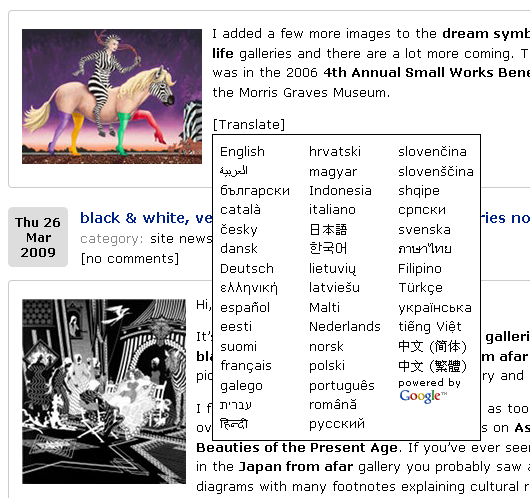
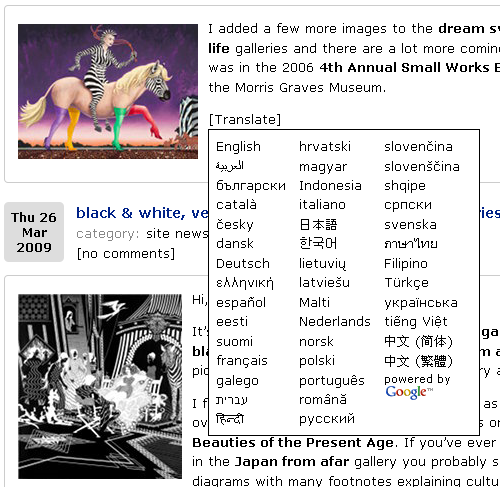
version 0.4.3
git-svn-id: https://plugins.svn.wordpress.org/google-ajax-translation/trunk@123519 b8457f37-d9ea-0310-8a92-e5e31aec5664

Changed region(s): [[0.0, 0.0, 1.0, 1.0]]

diff --git a/jquery.translate-1.3.7.min.js b/jquery.translate-1.3.7.min.js
@@ -1,0 +1,10 @@
+/* jQuery Translate plugin and related components */
+/* http://code.google.com/p/jquery-translate/
+ * Version: 1.3.7
+ * License: MIT, GPL  (c) 2009 Balazs Endresz
+ */
+(function(d){var a,j,h,g=false,b=false,i=[];function e(){j=c.GL=google.language;h=j.Languages;g=true;var k;while(k=i.shift()){k()}}function f(){}function c(){this.extend(d.translate);delete this.defaults;delete this.fn}c.prototype={version:"1.3.7",translateInit:function(k,m){var l=this;this.options=m;m.from=this.toLanguageCode(m.from)||"";m.to=this.toLanguageCode(m.to)||"";if(m.fromOriginal&&m.nodes[0]){m.nodes.each(function(n){var o=d.translate.getData(this,m.from,m);if(!o){return false}k[n]=o})}if(typeof k==="string"){if(!m.comments){k=this.stripComments(k)}this.rawSource="<div>"+k+"</div>";this.isString=true}else{if(!m.comments){k=d.map(k,function(n){return d.translate.stripComments(n)})}this.rawSource="<div>"+k.join("</div><div>")+"</div>";this.isString=false}this.from=m.from;this.to=m.to;this.source=k;this.elements=m.nodes;this.rawTranslation="";this.translation=[];this.startPos=0;this.i=0;this.stopped=false;m.start.call(this,m.nodes[0]?m.nodes:k,m.from,m.to,m);if(m.timeout>0){this.timeout=setTimeout(function(){m.onTimeout.call(l,m.nodes[0]?m.nodes:k,m.from,m.to,m)},m.timeout)}(m.toggle&&m.nodes[0])?this._toggle():this.translate();return this},translate:function(){if(this.stopped){return}var t=this,k=this.options;this.rawSourceSub=this.truncate(this.rawSource.substr(this.startPos),1750);this.startPos+=this.rawSourceSub.length;var q=this.rawTranslation.length,u;while((u=this.rawTranslation.lastIndexOf("</div>",q))>-1){q=u-1;var v=this.rawTranslation.substr(0,q+1),s=v.match(/<div[> ]/gi),r=v.match(/<\/div>/gi);s=s?s.length:0;r=r?r.length:0;if(s!=r+1){continue}var m=d(this.rawTranslation.substr(0,q+7)),p=m.length,n=this.i;if(n==p){break}m.slice(n,p).each(function(l,o){(function(){if(this.stopped){return false}var y=d(o).html().replace(/^\s/,""),x=n+l,z=this.source,A=this.from.length<2&&this.detectedSourceLanguage||this.from;this.translation[x]=y;if(!k.nodes[0]){if(this.isString){this.translation=y}else{z=this.source[x]}k.each.call(this,x,y,z,A,this.to,k)}else{this.each(x,this.elements[x],y,this.source[x],A,this.to,k);k.each.call(this,x,this.elements[x],y,this.source[x],A,this.to,k)}this.i++}).call(t)});break}if(this.rawSourceSub.length>0){j.translate(this.rawSourceSub,this.from,this.to,function(l){(function(){if(l.error){return k.error.call(this,l.error,this.rawSourceSub,this.from,this.to,k)}this.rawTranslation+=l.translation||this.rawSourceSub;this.detectedSourceLanguage=l.detectedSourceLanguage;this.translate()}).call(t)});if(!k.nodes[0]){return}}else{if(!this.rawTranslation){return}var w=this.from.length<2&&this.detectedSourceLanguage||this.from;if(this.timeout){clearTimeout(this.timeout)}if(!k.nodes[0]){k.complete.call(this,this.translation,this.source,w,this.to,k)}else{k.complete.call(this,this.elements.end(),this.elements,this.translation,this.source,w,this.to,k)}}},stop:function(){if(this.stopped){return this}this.stopped=true;this.options.error.call(this,{message:"stopped"});return this}};d.translate=function(m,l,k,o){if(m==a){return new c()}if(d.isFunction(m)){return d.translate.ready(m,l)}var n=new c();return d.translate.ready(function(){return n.translateInit(m,d.translate._getOpt(l,k,o))},false,n)};d.translate.fn=d.translate.prototype=c.prototype;d.translate.fn.extend=d.translate.extend=d.extend;d.translate.extend({stripComments:function(k){return k.replace(/<![ \r\n\t]*(--([^\-]|[\r\n]|-[^\-])*--[ \r\n\t]*)>/g,"")},truncate:function(q,l){var m,u,r,p,o,s,k=encodeURIComponent(q);for(m=0;m<10;m++){try{s=decodeURIComponent(k.substr(0,l-m))}catch(n){continue}if(s){break}}return(!(u=/<(?![^<]*>)/.exec(s)))?((!(r=/>\s*$/.exec(s)))?((p=/[\.\?\!;:](?![^\.\?\!;:]*[\.\?\!;:])/.exec(s))?((o=/>(?![^>]*<)/.exec(s))?(p.index>o.index?s.substring(0,p.index+1):s.substring(0,o.index+1)):s.substring(0,p.index+1)):s):s):s.substring(0,u.index)},getLanguages:function(t,s){if(t==a||(s==a&&!t)){return h}var r={},m=s,p=h;if(s){p=d.translate.getLanguages(t)}else{if(typeof t==="object"){m=t}}if(m){for(var q=0,n=m.length,k,o;q<n;q++){k=d.translate.toLanguageCode(m[q]);for(o in p){if(k===p[o]){r[o]=p[o]}}}}else{for(var o in h){if(j.isTranslatable(h[o])){r[o]=h[o]}}}return r},toLanguage:function(m,n){for(var k in h){if(m===k||m===h[k]||m.toUpperCase()===k||m.toLowerCase()===h[k].toLowerCase()){return n==="lowercase"?k.toLowerCase():n==="capitalize"?k.charAt(0).toUpperCase()+k.substr(1).toLowerCase():k}}},toLanguageCode:function(k){return h.a||h[d.translate.toLanguage(k)]},same:function(l,k){return l===k||d.translate.toLanguageCode(l)===d.translate.toLanguageCode(k)},isTranslatable:function(k){return j.isTranslatable(d.translate.toLanguageCode(k))},getBranding:function(l,k,m){return d(j.getBranding(l,k,m))},load:function(l,m,k){b=true;function n(){google.load(m||"language",k||"1",{callback:e})}(typeof google!=="undefined"&&google.load)?n():d.getScript("http://www.google.com/jsapi?"+(l?"key="+l:""),n);return d.translate},ready:function(k,m,l){g?k():i.push(k);if(!b&&!m){d.translate.load()}return l||d.translate},_getOpt:function(l,k,r,q){var p,n,m={};if(typeof l==="object"){m=l}else{if(!k&&!r){n=l}if(!r&&k){if(typeof k==="object"){n=l;m=k}else{p=l;n=k}}if(l!=a&&k&&r){p=l;n=k;m=r}m.from=p||m.from||"";m.to=n||m.to||""}if(m.fromOriginal){m.toggle=true}if(m.toggle){m.data=true}if(m.async===true){m.async=2}return d.extend({},d.translate._defaults,(q?d.fn.translate.defaults:d.translate.defaults),m)},_defaults:{comments:false,start:f,error:f,each:f,complete:f,onTimeout:f,timeout:0,from:"",to:"",nodes:[],walk:true,returnAll:false,replace:true,rebind:true,data:true,setLangAttr:false,subject:true,not:"",altAndVal:true,async:false,toggle:false,fromOriginal:false}});d.translate.defaults=d.extend({},d.translate._defaults)})(jQuery);(function(b){function a(f,d){var g=f.css("text-align");f.css("direction",d);if(g==="right"){f.css("text-align","left")}if(g==="left"){f.css("text-align","right")}}function c(e,f){var g=e.nodeName.toUpperCase(),d=g==="INPUT"&&b.attr(e,"type").toLowerCase();return typeof f.subject==="string"?f.subject:f.altAndVal&&(g==="IMG"||d==="image")?"alt":f.altAndVal&&({text:1,button:1,submit:1})[d]?"value":g==="TEXTAREA"?"value":"html"}b.translate.fn._toggle=function(){var f=this,g=this.options,e=g.nodes,h=g.to,d=false;e.each(function(j){f.i=j;var l=b(this),k=f.getData(this,h,g);if(!k){return !(d=true)}f.translation.push(k);f.setLangAttr(l,h,g);f.replace(l,k,g);g.each.call(f,j,f.elements[j],k,f.source[j],f.from,h,g)});!d?g.complete.call(this,e.end(),e,f.translation,this.source,this.from,this.to,g):this.translate()};b.translate.extend({each:function(f,h,d,g,m,l,k){var j=b(h);b.translate.setData(h,d,g,m,l,k);b.translate.replace(j,d,k);b.translate.setLangAttr(j,l,k)},getData:function(d,g,f){var e=b.data(d,"translation");return e&&e[g]&&e[g][c(d,f)]},setData:function(g,d,f,k,j,i){if(!i.data){return}var e=c(g,i),h=b.data(g,"translation");h=h||b.data(g,"translation",{});(h[k]=h[k]||{})[e]=f;(h[j]=h[j]||{})[e]=d;b.data(g,"translation."+k+"."+e,f);b.data(g,"translation."+j+"."+e,d)},replace:function(i,g,j){if(!j.replace){return}if(typeof j.subject==="string"){return i.attr(j.subject,g)}var k=i[0].nodeName.toUpperCase(),h=k==="INPUT"&&b.attr(i[0],"type").toLowerCase();if(j.to==="ar"){a(i,"rtl")}else{if(i.css("direction")==="rtl"){a(i,"ltr")}}if(j.altAndVal&&(k==="IMG"||h==="image")){i.attr("alt",g)}else{if(j.altAndVal&&({text:1,button:1,submit:1})[h]){i.val(g)}else{if(k==="TEXTAREA"){i.val(g)}else{if(j.rebind){var d=i.find("*").not("script"),f=b("<div/>").html(g);b.translate.copyEvents(d,f.find("*"));i.html(f.contents())}else{i.html(g)}}}}},setLangAttr:function(d,g,f){if(f.setLangAttr){d.attr(f.setLangAttr===true?"lang":f.setLangAttr,g)}},copyEvents:function(e,d){d.each(function(g){var k=e[g];if(!this||!k){return false}if(({SCRIPT:1,NOSCRIPT:1,STYLE:1,OBJECT:1,IFRAME:1})[k.nodeName.toUpperCase()]){return true}var f=b.data(k,"events");if(!f){return true}for(var j in f){for(var h in f[j]){b.event.add(this,j,f[j][h],f[j][h].data)}}})}});b.fn.translate=function(e,d,h){var f=b.translate._getOpt(e,d,h,true),g=b.extend({},b.translate._defaults,b.fn.translate.defaults,f,{complete:function(j,i){f.nodes=j;b.translate(i,f)},each:function(){}});if(this.nodesContainingText){return this.nodesContainingText(g)}f.nodes=this;b.translate(b.map(this,function(i){return b(i).html()||b(i).val()}),f);return this};b.fn.translate.defaults=b.extend({},b.translate._defaults)})(jQuery);(function(a){a.translate.ui=a.translate.fn.ui=function(f,d,i){var h="",g="",e="";if(i){g="<"+i+">";e="</"+i+">"}a.each(a.translate.getLanguages(true),function(b,c){h+=("<"+d+">"+g+b.charAt(0)+b.substring(1).toLowerCase()+e+"</"+d+">")});return a("<"+f+' class="jq-translate-ui">'+h+"</"+f+">")}})(jQuery);(function(a){a.translate.fn.progress=function(b,d){if(!this.i){this.pr=0}this.pr+=this.source[this.i].length;var c=100*this.pr/(this.rawSource.length-(11*(this.i+1)));if(b){var f=a(b);if(!this.i&&!f.hasClass("ui-progressbar")){f.progressbar(d)}f.progressbar("option","value",c)}return c}})(jQuery);(function(b){function a(){}a.prototype={init:function(e,d){this.textArray=[];this.elements=[];this.options=d;this.jquery=e;this.n=-1;if(d.async===true){d.async=2}if(d.not){e=e.not(d.not);e=e.add(e.find("*").not(d.not)).not(b(d.not).find("*"))}else{e=e.add(e.find("*"))}this.jq=e;this.jql=this.jq.length;return this.process()},process:function(){this.n++;var i=this,d=this.options,p="",h=false,g=false,f=this.jq[this.n],k,m,j;if(this.n==this.jql){j=this.jquery.pushStack(this.elements,"nodesContainingText");d.complete.call(j,j,this.textArray);if(d.returnAll===false&&d.walk===false){return this.jquery}return j}if(!f){return this.process()}k=b(f);var n=f.nodeName.toUpperCase(),l=n==="INPUT"&&b.attr(f,"type").toLowerCase();if(({SCRIPT:1,NOSCRIPT:1,STYLE:1,OBJECT:1,IFRAME:1})[n]){return this.process()}if(typeof d.subject==="string"){p=k.attr(d.subject)}else{if(d.altAndVal&&(n==="IMG"||l==="image")){p=k.attr("alt")}else{if(d.altAndVal&&({text:1,button:1,submit:1})[l]){p=k.val()}else{if(n==="TEXTAREA"){p=k.val()}else{m=f.firstChild;if(d.walk!==true){g=true}else{while(m){if(m.nodeType==1){g=true;break}m=m.nextSibling}}if(!g){p=k.text()}else{if(d.walk!==true){h=true}m=f.firstChild;while(m){if(m.nodeType==3&&m.nodeValue.match(/\S/)!==null){if(m.nodeValue.match(/<![ \r\n\t]*(--([^\-]|[\r\n]|-[^\-])*--[ \r\n\t]*)>/)!==null){if(m.nodeValue.match(/(\S+(?=.*<))|(>(?=.*\S+))/)!==null){h=true;break}}else{h=true;break}}m=m.nextSibling}if(h){p=k.html().replace(/<script[^>]*>([\s\S]*?)<\/script>/gi,"");this.jq=this.jq.not(k.find("*"))}}}}}}if(!p){return this.process()}this.elements.push(f);if(d.comments===false){p=this.stripComments(p)}this.textArray.push(p);d.each.call(f,this.elements.length-1,f,p);if(d.async){setTimeout(function(){i.process()},d.async);return this.jquery}else{return this.process()}},stripComments:function(d){return d.replace(/<![ \r\n\t]*(--([^\-]|[\r\n]|-[^\-])*--[ \r\n\t]*)>/g,"")}};b.fn.nodesContainingText=function(d){d=b.extend({},c,b.fn.nodesContainingText.defaults,d);return new a().init(this,d)};var c={not:"",async:false,each:function(){},complete:function(){},comments:false,returnAll:true,walk:true,altAndVal:false,subject:true};b.fn.nodesContainingText.defaults=c})(jQuery);
+/* minified version of google-ajax-translation.js
+2009-06-06
+ */
+function google_translate(D,C,E){var A=document.getElementById((("comment"==C)?"div-":"")+C+"-"+E);if(!A&&"comment"==C){A=document.getElementById("comment-"+E)}if(A){var B="#translate_loading_"+C+"_"+E;D=("he"==D)?"iw":D;jQuery(A).translate(D,{fromOriginal:true,not:".translate_block",start:function(){jQuery(B).show()},complete:function(){jQuery(B).hide()},error:function(){jQuery(B).hide()}})}jQuery("#translate_popup_"+C+"_"+E).slideUp("fast")}function show_translate_popup(C,B,D){var A=document.getElementById("translate_popup_"+B+"_"+D);if(A){if("none"==A.style.display){jQuery(A).slideDown("fast");if("en"!=C&&(!jQuery(A).hasClass("localized"))){localize_languages(C,A)}}else{jQuery(A).slideUp("fast")}}}var localized_languages=[];function localize_languages(B,A){var C=jQuery("a[title]",A).get();if(0==localized_languages.length){for(i in C){localized_languages[i]=C[i].title}B=("he"==B)?"iw":B;jQuery.translate(localized_languages,"en",B,{complete:function(){localized_languages=this.translation;insert_languagetitles(A,C)}})}else{insert_languagetitles(A,C)}}function insert_languagetitles(A,B){for(i in B){if(B[i].title){B[i].title=localized_languages[i]}}jQuery(A).addClass("localized")}jQuery(function(){jQuery(".translate_block").show()});

diff --git a/google-ajax-translation.js b/google-ajax-translation.js
@@ -1,6 +1,6 @@
 /**
  * Google AJAX Translation
- * 2008-04-28
+ * 2008-06-06
  */
 function google_translate( lang, type, id ) {
 	var text_node = document.getElementById( ( ( 'comment' == type ) ? 'div-' : '' ) + type + '-' + id );
@@ -37,7 +37,7 @@ function show_translate_popup( lang, type, id ) {
 var localized_languages = []; // array that holds localized language names for the entire page
 
 function localize_languages( lang, popup_id ) {
-	var language_nodes = jQuery( popup_id ).children( 'a[title]' ).get();
+	var language_nodes = jQuery( 'a[title]', popup_id ).get();
 	if ( 0 == localized_languages.length ) { // Have language names not been translated yet? This should only be done once per page
 		for ( i in language_nodes ) {
 			localized_languages[i] = language_nodes[i].title; // Make array of English language names

diff --git a/google-ajax-translation.css b/google-ajax-translation.css
@@ -5,6 +5,10 @@ display: -moz-inline-box; /* for FF 2 but FF 2 looks like it has other problems 
 display: inline-block;
 }
 
+.translate_block td {
+padding: 0 1em 0 0;
+}
+
 .translate_block a {
 display: block;
 font-weight: normal !important;
@@ -20,10 +24,6 @@ vertical-align: middle;
 background-color: #fff; /* Use your own background color here. */
 border-style: solid;
 border-width: 1px;
--moz-column-count: 3;
--moz-column-gap: 1em;
-/*-webkit-column-count: 3;
--webkit-column-gap: 1em; webkit doesn't do columns right yet */
 padding: 0.5em;
 position: absolute;
 z-index: 50;
@@ -31,10 +31,6 @@ z-index: 50;
 
 .translate_block .translate_flag {
 background: url(42flags.png) no-repeat;
-}
-
-.translate_popup .translate_flag {
-margin: 0 0 6px;
 }
 
 .translate_block .ar {background-position: 0 0;}

diff --git a/ajaxtranslation.php b/ajaxtranslation.php
@@ -4,8 +4,8 @@ Plugin Name: Google AJAX Translation
 Plugin URI: http://blog.libinpan.com/2008/08/04/google-ajax-translation-wordpress-plugin/
 Description: Add <a href="http://code.google.com/apis/ajaxlanguage/">Google AJAX Translation</a> to your blog. This plugin allows your blog readers to translate your blog posts or comments into other languages. <a href="options-general.php?page=ajaxtranslation.php">[Settings]</a>
 Author: Libin Pan, Michael Klein, and Nick Marshall
-Version: 0.4.2
-Stable tag: 0.4.2
+Version: 0.4.3
+Stable tag: 0.4.3
 Author URI: http://libinpan.com/
 
 Installation:
@@ -19,15 +19,12 @@ Notes:
 	- Uses the Google AJAX Language API http://code.google.com/apis/ajaxlanguage/ and the jquery-translate plugin http://code.google.com/p/jquery-translate/
 	- Google Ajax Translation automatically detects your source language. If your source text changes to more than one language it can get confused.
 	- Most formatting, font, color, etc. changes can be made in google-ajax-translation.css or you can override them with your own CSS file
-	- The popup window uses CSS3 to show three columns in Firefox 3+. The window is only one column in other browsers.
 	- The included ajax throbber, ajax-loader.gif, is black on a white background. You can make your own at http://www.ajaxload.info/ 16 by 16 pixels works best.
 	- The "[" and "]" characters in the "Translate" button can be changed in the variables $before_translate and $after_translate
 	- The google-ajax-translation.js file is included for reference. It is minified and appended to the file jquery.translate-1.3.2.min.js
 	- If you want to make some changes and want to share with all of us, please feel free to contact me @ libinpan@gmail.com or leave comments
 	
 TODO:
-	- another option to show flag icons and text
-	- change popup to a table so it doesn't rely on CSS3
 	- add widget?
 
 This program is free software; you can redistribute it and/or modify it under the terms of the GNU General Public License as published by the Free Software Foundation, version 2.
@@ -39,7 +36,7 @@ if (!class_exists('GoogleTranslation')) {
 	class GoogleTranslation {
 
 		var $optionPrefix = 'google_translation_';
-		var $version      = '0.4.2';
+		var $version      = '0.4.3';
 		var $pluginUrl    = 'http://wordpress.org/extend/plugins/google-ajax-translation/';
 		var $authorUrl    = 'http://blog.libinpan.com/2008/08/04/google-ajax-translation-wordpress-plugin/';
 
@@ -249,8 +246,7 @@ if (!class_exists('GoogleTranslation')) {
 
 			/* foreach ( $this -> options as $k => $v ) {
 				delete_option( $this -> optionPrefix.$k );
-			}
-			echo var_dump($this -> options) . "<br />";*/
+			}*/
 			if ( false !== get_option( $this -> optionPrefix . "languages" ) ) { // if options exist in the database
 				foreach ( $this -> options as $k => $v ) {              // get options from DB
 					$this -> options[$k] = get_option( $this -> optionPrefix . $k );
@@ -258,6 +254,7 @@ if (!class_exists('GoogleTranslation')) {
 				if ( '' == $this -> options['languages'] )
 					$this -> options['languages'] = array(); // options['languages'] gets saved to the database incorrectly as a string if no languages are selected
 			}
+			// echo var_dump($this -> options) . "<br />";
 
 			$browser_lg = $this -> browser_lang = $this -> preferred_language( $this -> target_languages ); // find browser's preferred language
 			$browser_lg_index = array_search ( $browser_lg  , $this -> options['languages'] ); // find index of preferred language in options array
@@ -267,26 +264,54 @@ if (!class_exists('GoogleTranslation')) {
 			}
 
 			// Add action and filter hooks to WordPress
-			wp_enqueue_style('google-ajax-translation', $this->pluginRoot . 'google-ajax-translation.css' , false, '20090505', 'screen');
+			wp_enqueue_style( 'google-ajax-translation', $this->pluginRoot . 'google-ajax-translation.css' , false, '20090525', 'screen' );
 			if ( is_admin() ){
-				add_action( 'admin_menu', array(&$this, 'addOptionsPage'));
-				add_action( 'admin_init', array(&$this, 'translation_register_settings') );
+				add_action( 'admin_menu', array( &$this, 'addOptionsPage' ) );
+				add_action( 'admin_init', array( &$this, 'register_mysettings' ) );
 			} else {
-				wp_enqueue_script('jquery-translate', $this->pluginRoot . 'jquery.translate-1.3.2.min.js', array('jquery'), '1.3.2' );
-				//wp_enqueue_script('google-ajax-translation', $this->pluginRoot . 'google-ajax-translation.js', array('jquery-translate'), '20090501' ); // Minified version is appended to jquery.translate-1.3.2.min.js
+				wp_enqueue_script( 'jquery-translate', $this->pluginRoot . 'jquery.translate-1.3.7.min.js', array('jquery'), '1.3.7' );
+				//wp_enqueue_script('google-ajax-translation', $this->pluginRoot . 'google-ajax-translation.js', array('jquery-translate'), '20090501' ); // Minified version is appended to jquery.translate-1.3.7.min.js (Leave this here for debugging.)
 				if ( $this -> options['postEnable'] || $this -> options['pageEnable'] ) {
-					add_filter('the_content', array(&$this, 'processContent'), 50);
+					add_filter( 'the_content', array( &$this, 'processContent' ), 50 );
 				}
 				if ( $this -> options['commentEnable'] ) {
-					add_filter('comment_text', array(&$this, 'processComment'), 50);
+					add_filter( 'comment_text', array( &$this, 'processComment' ), 50 );
 				}
 			}
 		}
 		
-		function translation_register_settings() {
-			foreach ( $this -> options as $key => $value ) {
-				register_setting( 'google-ajax-translation', $this -> optionPrefix . $key, '' ); // whitelist options
+		function register_mysettings() { // register and sanitize options
+			$p = $this -> optionPrefix;
+			register_setting( 'google-ajax-translation', $p . 'linkStyle', array( &$this, 'sanitize_linkStyle' ) );
+			register_setting( 'google-ajax-translation', $p . 'postEnable', array( &$this, 'sanitize_checkbox' )  );
+			register_setting( 'google-ajax-translation', $p . 'pageEnable', array( &$this, 'sanitize_checkbox' )  );
+			register_setting( 'google-ajax-translation', $p . 'commentEnable', array( &$this, 'sanitize_checkbox' )  );
+			register_setting( 'google-ajax-translation', $p . 'languages', array( &$this, 'sanitize_languages' ) );
+		}
+
+		function sanitize_linkStyle($value) { // sanitize linkStyle option value
+			$possible_values = array( 'text', 'image', 'imageandtext' );
+			return ( in_array( $value, $possible_values ) ) ? $value : NULL;
+		}
+
+		function sanitize_checkbox($value) { // sanitize checkbox option values
+			return ( 'on' == $value ) ? $value : NULL;
+		}
+
+		function sanitize_languages($value) { // sanitize languages option array
+			if ( is_array($value) ) {
+				$index = 0;
+				foreach ( $value as $lg ) {
+					if ( ! in_array( $lg, $this -> target_languages ) ) {
+						array_splice( $value, $index , 1 );
+						$index--;
+					}
+					$index++;
+				}
+			} else {
+				$value = array(); // no languages checked sends a "" string so this sets it to an empty array
 			}
+			return $value;
 		}
 
 		function addOptionsPage(){
@@ -294,10 +319,10 @@ if (!class_exists('GoogleTranslation')) {
 		}
 
 		function uninstall() { // uninstall function called by uninstall.php
-		foreach ( $this -> options as $k => $v ) {              // delete options from DB
-				delete_option( $this -> optionPrefix . $k );
-			}
-		echo "<p>Deleting options</p>";
+			foreach ( $this -> options as $k => $v ) { // delete options from wp_options table
+					delete_option( $this -> optionPrefix . $k );
+				}
+			// echo "<p>Deleting options</p>";
 		}
 
 		function loadLanguageFile() {                       // loads language files according to locale
@@ -309,10 +334,7 @@ if (!class_exists('GoogleTranslation')) {
 
 		function outputOptionsPanel() {
 			$domain = $this -> textDomain;
-			$p = $this->optionPrefix;
-			$a = array();
-			foreach ($this->options as $k=>$v) $a[] = $p.$k;  // prefix all option-vars
-			$page_options = join(',', $a);
+			$p = $this -> optionPrefix;
 
 			echo '<div class="wrap">';
 			echo '<h2>'.__('Google Ajax Translation', $domain).'</h2> ';
@@ -321,75 +343,102 @@ if (!class_exists('GoogleTranslation')) {
 			echo ' | <a href="'.$this->pluginUrl.'" target="_blank" title="' . __('Visit plugin homepage', $domain) . '">Plugin Homepage</a>';
 			echo ' | <a target="_blank" title="Donate" href="https://www.paypal.com/cgi-bin/webscr?cmd=_donations&amp;business=libin_pan%40hotmail%2ecom&amp;item_name=Google%20Ajax%20Translation%20WP%20Plugin&amp;item_number=Support%20Open%20Source&amp;no_shipping=0&amp;no_note=1&amp;tax=0&amp;currency_code=USD&amp;lc=US&amp;bn=PP%2dDonationsBF&amp;charset=UTF%2d8">' . __('Donate', $domain) . '</a>';
 			echo "</p>\n";
-			// wp_nonce_field('update-options');
 			echo '<form method="post" action="options.php">
 			<table class="form-table"> 
 			<tr valign="top">
 				<th scope="row">' . __('Link Style', $domain) . '</th>
 				<td>
 					<p>
-						<label><input name="' . $p . 'linkStyle" type="radio" value="text" ' . (($this->options['linkStyle'] == 'text')  ? 'checked="checked"':'').' /> ' . __('Language Text', $domain) . '</label><br />
-						<label><input name="'.$p.'linkStyle" type="radio" value="image" ' . (($this->options['linkStyle'] == 'image') ? 'checked="checked"':'').' /> ' . __('Flag Icon', $domain) . '</label>
+						<label><input name="' . $p . 'linkStyle" type="radio" value="text" ' . ( ( 'text' == $this -> options['linkStyle'] ) ? 'checked="checked"' : '' ) . ' /> ' . __('Language Text', $domain) . '</label><br />
+						<label><input name="' . $p . 'linkStyle" type="radio" value="image" ' . ( ( 'image' == $this -> options['linkStyle'] ) ? 'checked="checked"' : '' ) . ' /> ' . __('Flag Icon', $domain) . '</label><br />
+						<label><input name="' . $p . 'linkStyle" type="radio" value="imageandtext" ' . ( ( 'imageandtext' == $this -> options['linkStyle'] ) ? 'checked="checked"' : '' ) . ' /> ' . __('Flag Icon and Text', $domain) . '</label>
 					</p>
 				</td>
 			</tr>
 			<tr valign="top">
 				<th scope="row">' . __('Enable post translation', $domain) . '</th>
 				<td>
-					<input name="' . $p . 'postEnable" type="checkbox" ' . (($this->options['postEnable']) ? 'checked="checked"':'') . ' />
+					<input name="' . $p . 'postEnable" type="checkbox" ' . ( ( $this -> options['postEnable'] ) ? 'checked="checked"' : '' ) . ' />
 				</td>
 			</tr>
 			<tr valign="top">
 				<th scope="row">' . __('Enable page translation', $domain) . '</th>
 				<td>
-					<input name="' . $p . 'pageEnable" type="checkbox" ' . (($this->options['pageEnable']) ? 'checked="checked"':'') . ' />
+					<input name="' . $p . 'pageEnable" type="checkbox" ' . ( ( $this -> options['pageEnable'] ) ? 'checked="checked"' : '' ) . ' />
 				</td>
 			</tr>
 			<tr valign="top">
 				<th scope="row">' . __('Enable comment translation', $domain) . '</th>
 				<td>
-					<input name="' . $p . 'commentEnable" type="checkbox" ' . (($this->options['commentEnable']) ? 'checked="checked"':'') . ' />
+					<input name="' . $p . 'commentEnable" type="checkbox" ' . ( ( $this -> options['commentEnable'] ) ? 'checked="checked"' : '' ) . ' />
 				</td>
 			</tr>
 			<tr valign="top">
 				<th scope="row">' . __('Languages', $domain) . '</th>
-				<td class="translate_block">
-					<table><tr><td style="padding: 0 10px 0 0;" valign="top">';
-					foreach ($this->languages as $lg=>$v) {
+				<td>
+					<table class="translate_block"><tr><td style="padding: 0 10px 0 0;" valign="top">
+					';
+					$numberof_languages = count( $this -> languages );
+					foreach ( $this -> languages as $lg => $v ) {
 						echo '<label title="' . $this -> display_name[$lg] . '"><input type="checkbox" name="' . $p . 'languages[]" value="' . $lg . '" ';
-						if (in_array($lg,(array)$this->options['languages'])) echo 'checked="checked"';
-						echo ' /> <img class="translate_flag ' . $lg . '" src="' . $this->pluginRoot . 'transparent.gif" alt="' . $this->display_name[$lg] . '" width="16" height="11" /> ' . $v . '</label><br />';
-						if ( ( 0 == ++$i % 14) && ( $i < count($this -> languages ) ) ) {
+						if ( in_array( $lg, (array) $this -> options['languages'] ) ) echo 'checked="checked"';
+						echo ' /> <img class="translate_flag ' . $lg . '" src="' . $this -> pluginRoot . 'transparent.gif" alt="' . $this -> display_name[$lg] . '" width="16" height="11" /> ' . $v . '</label><br />';
+						if ( ( 0 == ++$i % 14) && ( $i < $numberof_languages ) ) {
 							echo '</td>
 							<td style="padding: 0 10px 0 0;" valign="top">';
 						}
 					}
 			echo '</td></tr></table>
+			<p>
+				<input type="button" class="button" onclick="jQuery(\'.translate_block input\').attr(\'checked\', \'checked\')" value="' . __('All', $domain) . '" />
+				<input type="button" class="button" onclick="jQuery(\'.translate_block input\').removeAttr(\'checked\')" value="' . __('None', $domain) . '" />
+			</p>
 			</td></tr></table>
 			<p class="submit">';
 			echo "\n" . settings_fields('google-ajax-translation') . "\n";
-			echo '<input type="submit" name="Submit" value="' . __('Save Changes', $domain) . '" />
+			echo '<input type="submit" name="submit" class="button-primary" value="' . __('Save Changes', $domain) . '" />
 			</p></form></div>';
 		}
 
 		function getLanguageLinks($type, $id) {
-			$s = '';
+			$numberof_languages = count( $this -> options['languages'] );
+			$languages_per_column = ceil( ( $numberof_languages + 2 ) / 3 );
+			$s = '<table><tr><td valign="top">
+			';
 			switch ($this->options['linkStyle']) {
 				case 'image':
-					foreach($this->options['languages'] as $lg) {
-						$s .= "<a href=\"javascript:google_translate('$lg', '$type', $id);\" title=\"" . $this->languages[$lg]
-						. '"><img class="translate_flag ' . $lg . '" src="' . $this->pluginRoot . 'transparent.gif" alt="' . $this->display_name[$lg] . "\" width=\"16\" height=\"11\" /></a>\n";
+					foreach($this -> options['languages'] as $lg) {
+						$s .= "<a href=\"javascript:google_translate('$lg', '$type', $id);\" title=\"" . $this -> languages[$lg] . '"><img class="translate_flag ' . $lg . '" src="' . $this -> pluginRoot . 'transparent.gif" alt="' . $this -> display_name[$lg] . "\" width=\"16\" height=\"11\" /> </a>\n";
+						if ( 0 == ++$i % $languages_per_column) {
+							$s .= '</td>
+							<td valign="top">';
+						}
 					}
 					$s .= "<a class=\"google_branding\" href=\"http://translate.google.com/\" title=\"powered by Google\">" . "powered by" . "<img src=\"http://www.google.com/uds/css/small-logo.png\" alt=\"Google\" title=\"\" width=\"51\" height=\"15\" /></a>\n";
 					break;
 				case 'text':
 				default:
-					foreach($this->options['languages'] as $lg) {
-						$s .= "<a lang=\"" . $lg . "\" xml:lang=\"" . $lg . "\" href=\"javascript:google_translate('$lg', '$type', $id);\" title=\"" . $this->languages[$lg] . "\">" . $this->display_name[$lg] . "</a>\n";
+					foreach($this -> options['languages'] as $lg) {
+						$s .= "<a lang=\"" . $lg . "\" xml:lang=\"" . $lg . "\" href=\"javascript:google_translate('$lg', '$type', $id);\" title=\"" . $this -> languages[$lg] . "\">" . $this -> display_name[$lg] . "</a>\n";
+						if ( 0 == ++$i % $languages_per_column) {
+							$s .= '</td>
+							<td valign="top">';
+						}
+					}
+					$s .= "<a class=\"google_branding\" href=\"http://translate.google.com/\" title=\"powered by Google\">" . "powered by" . "<img src=\"http://www.google.com/uds/css/small-logo.png\" alt=\"Google\" title=\"\" width=\"51\" height=\"15\" /></a>\n";
+					break;
+				case 'imageandtext':
+					foreach($this -> options['languages'] as $lg) {
+						$s .= "<a lang=\"" . $lg . "\" xml:lang=\"" . $lg . "\" href=\"javascript:google_translate('$lg', '$type', $id);\" title=\"" . $this -> languages[$lg] . '"><img class="translate_flag ' . $lg . '" src="' . $this -> pluginRoot . 'transparent.gif" alt="' . $this -> display_name[$lg] . "\" width=\"16\" height=\"11\" /> " . $this -> display_name[$lg] . "</a>\n";
+						if ( 0 == ++$i % $languages_per_column) {
+							$s .= '</td>
+							<td valign="top">';
+						}
 					}
 					$s .= "<a class=\"google_branding\" href=\"http://translate.google.com/\" title=\"powered by Google\">" . "powered by" . "<img src=\"http://www.google.com/uds/css/small-logo.png\" alt=\"Google\" title=\"\" width=\"51\" height=\"15\" /></a>\n";
 					break;
 			}
+			$s .= "</td></tr></table>\n";
 			return $s;
 		}
 
@@ -401,7 +450,7 @@ if (!class_exists('GoogleTranslation')) {
 				$browser_lg = $this -> browser_lang;
 				$content .= '<hr class="translate_hr" />
 				<div class="translate_block" style="display: none;">
-				<a class="translate_translate" lang="' . $browser_lg . '" xml:lang="' . $browser_lg . '" href="javascript:show_translate_popup(\'' . $browser_lg . '\' , \'post\', ' . $id . ');">' . ($this -> before_translate) . ($this -> translate_message[$browser_lg]) . ($this -> after_translate) . '<img src="' . $this -> pluginRoot . 'transparent.gif" id="translate_loading_post_' . $id . '" class="translate_loading" style="display: none;" width="16" height="16" alt="" /></a>
+				<a class="translate_translate" lang="' . $browser_lg . '" xml:lang="' . $browser_lg . '" href="javascript:show_translate_popup(\'' . $browser_lg . '\', \'post\', ' . $id . ');">' . ($this -> before_translate) . ($this -> translate_message[$browser_lg]) . ($this -> after_translate) . '<img src="' . $this -> pluginRoot . 'transparent.gif" id="translate_loading_post_' . $id . '" class="translate_loading" style="display: none;" width="16" height="16" alt="" /></a>
 				<div class="translate_popup" id="translate_popup_post_'.$id.'" style="display: none;">
 				' . $this->getLanguageLinks('post', $id) . '</div>
 				</div>';

diff --git a/uninstall.php b/uninstall.php
@@ -1,0 +1,8 @@
+<?php
+// echo "WP_UNINSTALL_PLUGIN: " . WP_UNINSTALL_PLUGIN . "<br />";
+// echo "plugin_basename('google-ajax-translation/ajaxtranslation.php'): " . plugin_basename('google-ajax-translation/ajaxtranslation.php') . "<br />";
+if ( plugin_basename('google-ajax-translation/ajaxtranslation.php') == WP_UNINSTALL_PLUGIN ) { // 
+	require_once("ajaxtranslation.php");
+	$GoogleTranslation -> uninstall(); // delete options from wp_options table
+}
+?>
